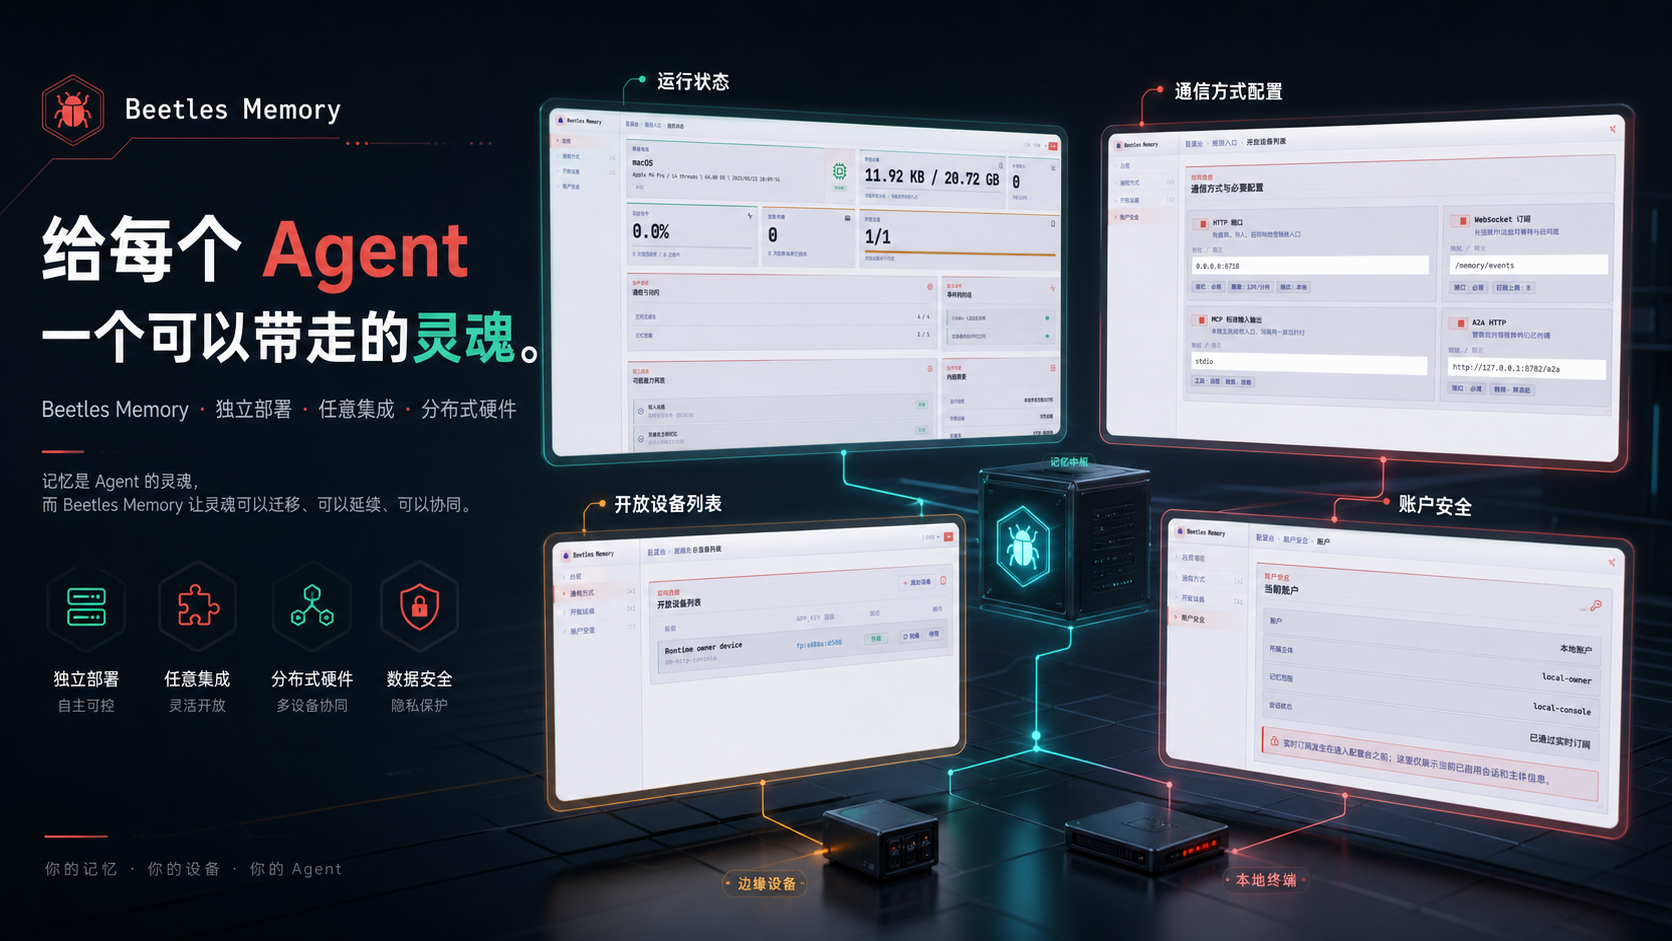
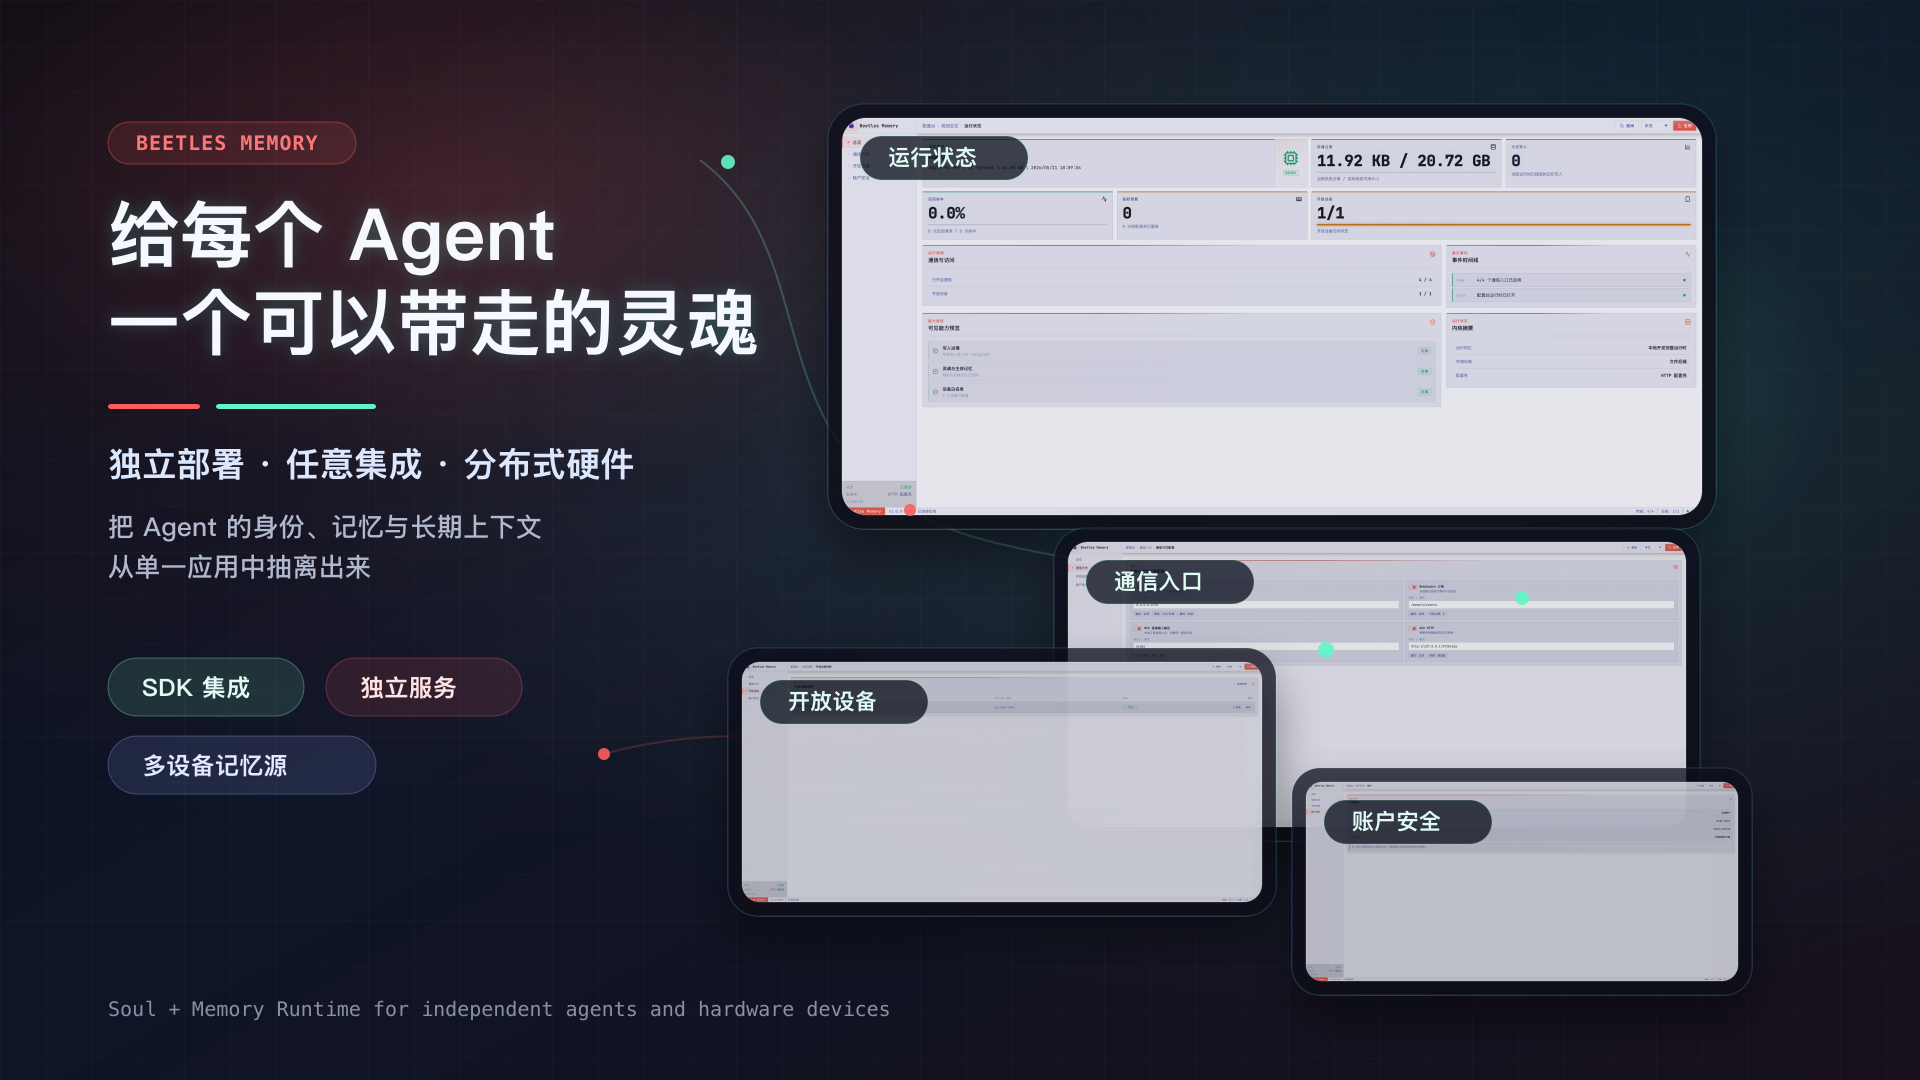
docs: refresh README posters

diff --git a/README.md b/README.md
@@ -2,6 +2,8 @@
 
 English | [中文](README.zh-CN.md)
 
+![Beetle Memory poster](docs/assets/beetles-memory-poster-en.png)
+
 Beetle Memory is a Rust memory runtime for agent systems. It provides an SDK-first integration path, owned storage backends, profile-based platform trimming, replay and migration tools, and thin protocol adapters for standalone deployment.
 
 The project is not a vector database, a generic RAG framework, a chat-history dump, a workflow runner, or a tool execution runtime. Its job is to own memory state, memory operations, lifecycle reports, profile capability visibility, and migration/replay contracts.
@@ -28,6 +30,14 @@ The Cargo workspace is versioned as `0.1.0`. The repository includes five smoke-
 - Export, import, and replay continuity snapshots.
 - Run through SDK, CLI, HTTP, WebSocket, MCP, or A2A adapter shells without duplicating memory semantics.
 - Compile for ESP, Linux hardware devices, macOS/Windows SDK hosts, and Linux server gateway profiles.
+
+## Console Preview
+
+| Runtime Status | Communication Setup |
+| --- | --- |
+| ![Runtime Status](docs/assets/console-en-runtime-status.png) | ![Communication Setup](docs/assets/console-en-communication-setup.png) |
+| Allowed Devices | Account Security |
+| ![Allowed Devices](docs/assets/console-en-allowed-devices.png) | ![Account Security](docs/assets/console-en-account-security.png) |
 
 ## Quick Start
 
